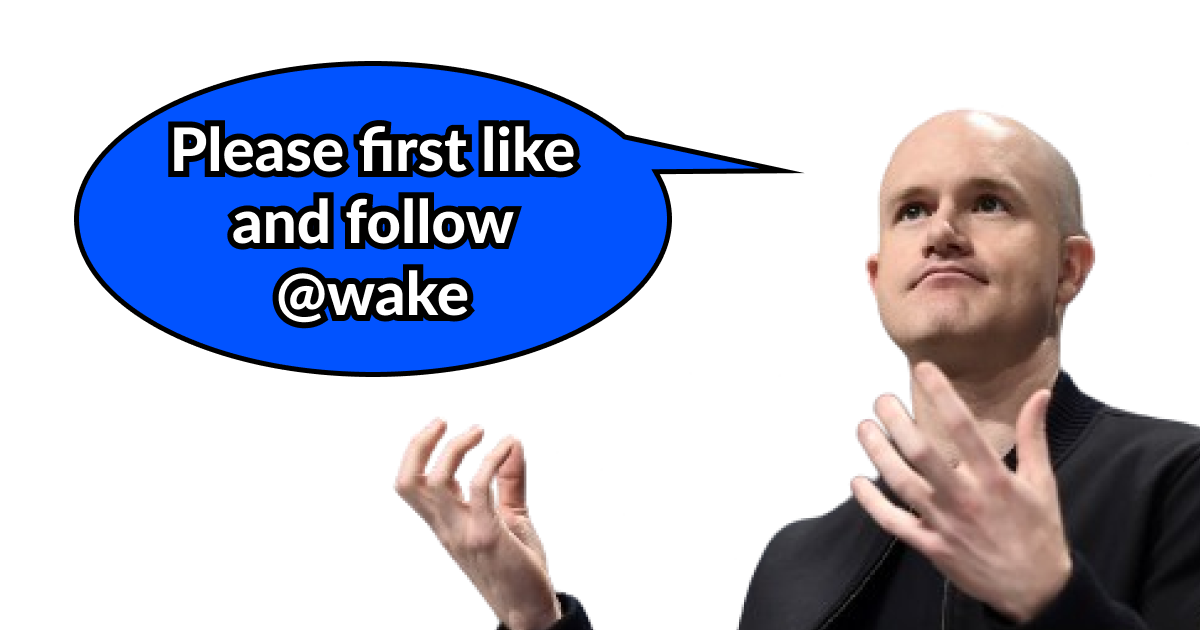
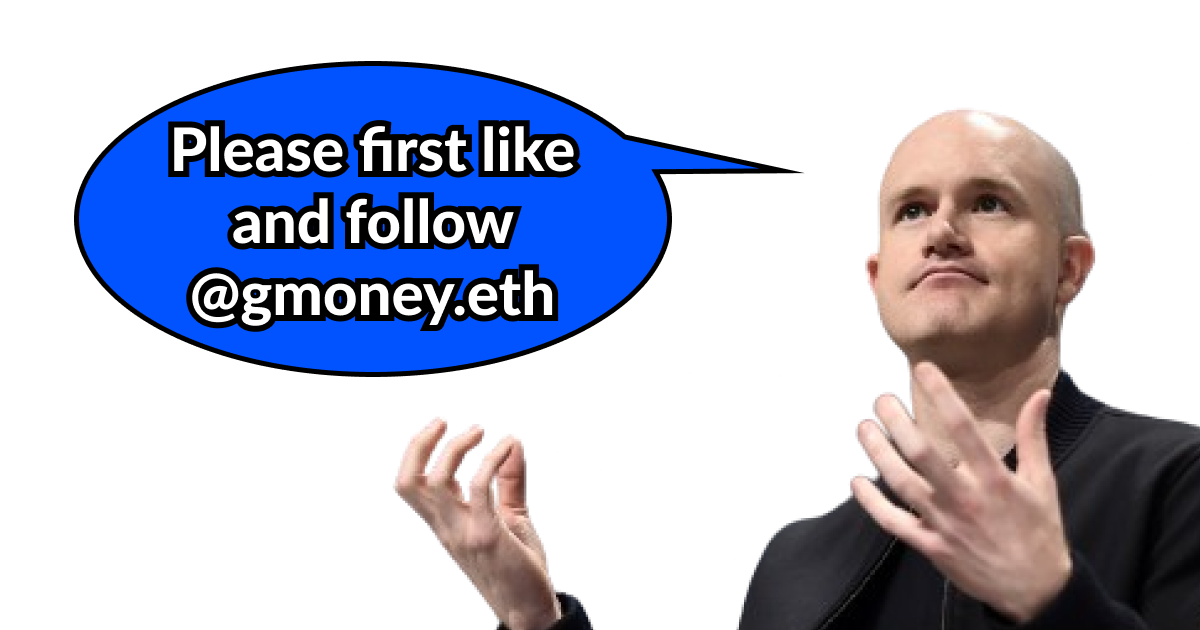
update for gmoney

Changed region(s): [[0.1542, 0.4222, 0.4625, 0.5429]]

diff --git a/app/config.ts b/app/config.ts
@@ -10,8 +10,8 @@ import { base, baseSepolia } from "viem/chains";
 export const PICK_AMOUNT = 5;
 export const MAXIMUM_NUMBER = 25;
 
-export const FOLLOW_ACCOUNT_FID = 2904;
-export const FOLLOW_ACCOUNT_USERNAME = "wake";
+export const FOLLOW_ACCOUNT_FID = 9410;
+export const FOLLOW_ACCOUNT_USERNAME = "gmoney.eth";
 
 export const CONTRACT_ADDRESS = "0xc94e65A6d6C145B6A0342dA9b5e8Dc3928505857";
 export const CHAIN = base;

diff --git a/app/Frame.tsx b/app/Frame.tsx
@@ -257,7 +257,7 @@ export async function Frame({
         ? await checkIsDegen(userData.verifications)
         : false;
 
-      if (!isFollowing || !hasLiked) {
+      if (!isFollowing /* || !hasLiked*/) {
         return (
           <FrameContainer
             postUrl="/frames"
